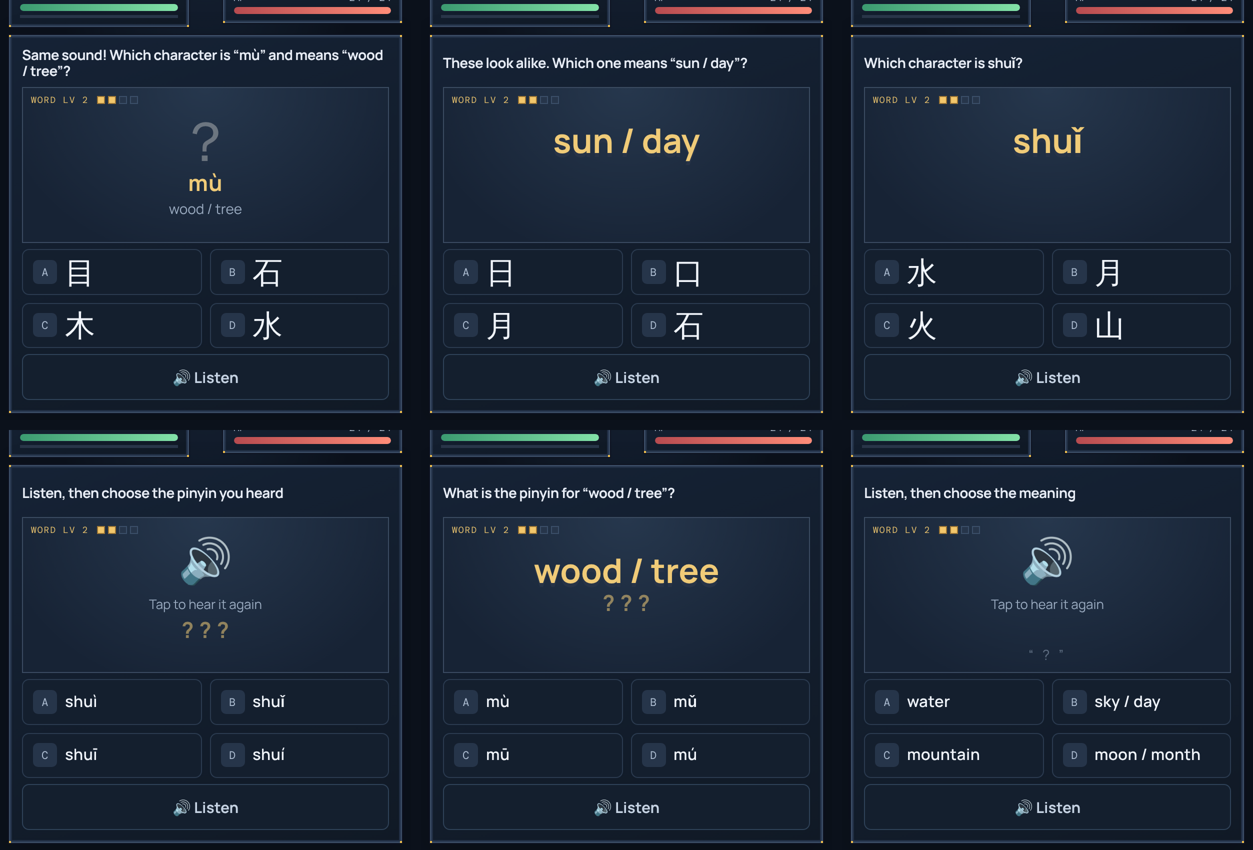
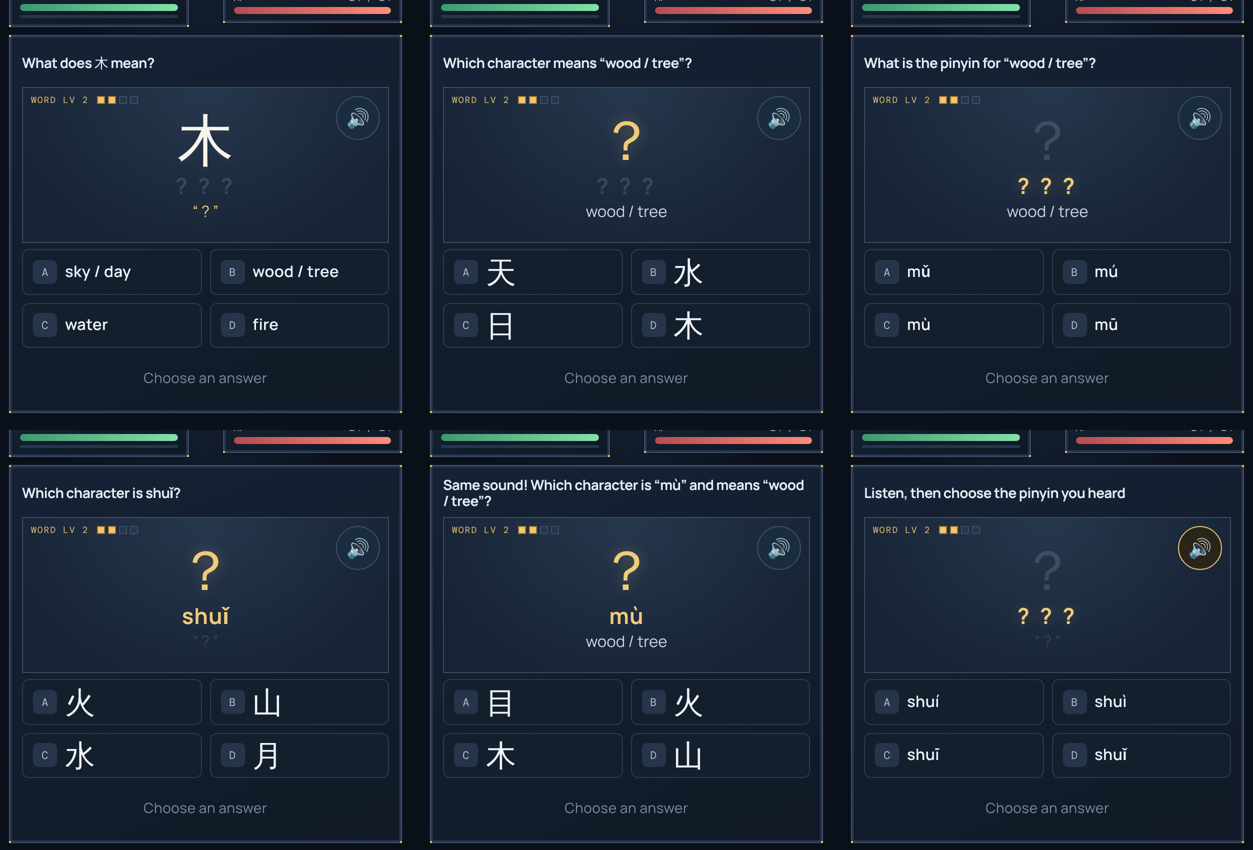
Stable word card: fixed character/pinyin/meaning slots, one speaker button in a fixed corner
Claude-Session: https://claude.ai/code/session_01ULBsvTWxFxqScTZpPGRbQn

diff --git a/src/App.tsx b/src/App.tsx
@@ -300,11 +300,8 @@ export default function App() {
   const entry = save.mastery[word.hanzi]
   const revealed = !!feedback
   const show = { hanzi: question.show.hanzi || revealed, pinyin: question.show.pinyin || revealed, meaning: question.show.meaning || revealed }
-  // The big line of the word card: the character when shown, else the meaning or pinyin that is being given as the cue.
-  const main = show.hanzi ? { text: word.hanzi, latin: false, hidden: false, usesPinyin: false, usesMeaning: false }
-    : show.meaning && question.ask !== 'meaning' && !(show.pinyin && question.kind === 'homophone') ? { text: word.meaning, latin: true, hidden: false, usesPinyin: false, usesMeaning: true }
-      : show.pinyin && question.ask !== 'pinyin' && !show.meaning ? { text: word.pinyin, latin: true, hidden: false, usesPinyin: true, usesMeaning: false }
-        : { text: '？', latin: false, hidden: true, usesPinyin: false, usesMeaning: false }
+  // Each field of the word card has its OWN fixed slot. A hidden field shows the same placeholder; the asked one is highlighted.
+  const slot = (shown: boolean, asked: boolean) => (shown ? 'on' : asked ? 'ask' : 'dim')
   const fighting = run.phase === 'fighting'
   const lastOfFloor = run.kill + 1 >= ENEMIES_PER_FLOOR
   const pips = entry ? entry.lv : -1
@@ -355,11 +352,10 @@ export default function App() {
             {/* Fixed-size regions: stage, choices, action bar never change size or position. */}
             {fighting && !feedback && <>
               <div className="stage stage-card"><span className="stage-badge">{pips < 0 ? 'NEW WORD' : pips >= MAX_LV ? 'MASTERED' : `WORD LV ${pips}`}<i className="pips">{Array.from({ length: MAX_LV }, (_, k) => <u key={k} className={k < pips ? 'on' : ''} />)}</i></span>
-                {question.audio
-                  ? <button className="listen-big" onClick={() => speak(word.hanzi)} aria-label="Play the word again">🔊<span>Tap to hear it again</span></button>
-                  : <div className={`hanzi ${main.latin ? 'big-latin' : ''} ${main.hidden ? 'is-hidden' : ''}`}>{main.text}</div>}
-                <div className="pinyin-line"><span className={`pinyin ${show.pinyin ? '' : 'is-hidden'}`}>{main.usesPinyin ? '\u00a0' : show.pinyin ? word.pinyin : question.ask === 'pinyin' ? '? ? ?' : '\u00a0'}</span></div>
-                <div className={`word-meaning ${show.meaning ? '' : 'is-hidden'}`}>{main.usesMeaning ? '\u00a0' : show.meaning ? word.meaning : question.ask === 'meaning' ? '“ ? ”' : '\u00a0'}</div>
+                <button className={`speak-btn ${question.audio ? 'cue' : ''}`} onClick={() => speak(word.hanzi)} aria-label="Hear the word">🔊</button>
+                <div className={`slot slot-hanzi ${slot(show.hanzi, question.ask === 'hanzi')}`}>{show.hanzi ? word.hanzi : '？'}</div>
+                <div className={`slot slot-pinyin ${slot(show.pinyin, question.ask === 'pinyin')}`}>{show.pinyin ? word.pinyin : '? ? ?'}</div>
+                <div className={`slot slot-meaning ${slot(show.meaning, question.ask === 'meaning')}`}>{show.meaning ? word.meaning : '“ ? ”'}</div>
               </div>
               <div className="answer-list">{question.options.map((option, i) => {
                 const gone = eliminated.includes(option)
@@ -376,8 +372,10 @@ export default function App() {
                     <div className="fb-word">
                       <span className="fb-hanzi">{feedback.word.hanzi}</span>
                       <div className="fb-info"><span className="fb-pinyin">{feedback.word.pinyin}</span><span className="fb-meaning">{feedback.word.meaning}</span></div>
-                      {hasExplanation(feedback.word.hanzi) && <button className={`icon-btn tip-btn ${feedback.correct ? '' : 'pulse'}`} onClick={() => setExplain([feedback.word.hanzi])} aria-label={`More about ${feedback.word.hanzi}`}>💡</button>}
-                      <button className="icon-btn" onClick={() => speak(feedback.word.hanzi)} aria-label="Hear pronunciation">🔊</button>
+                    </div>
+                    <div className="corner-btns">
+                      {hasExplanation(feedback.word.hanzi) && <button className={`speak-btn tip-btn ${feedback.correct ? '' : 'pulse'}`} onClick={() => setExplain([feedback.word.hanzi])} aria-label={`More about ${feedback.word.hanzi}`}>💡</button>}
+                      <button className="speak-btn" onClick={() => speak(feedback.word.hanzi)} aria-label="Hear the word">🔊</button>
                     </div>
                     <p className="fb-note" ref={noteRef}>{feedback.word.note}</p>
                     {feedback.mastery && <p className={`fb-mastery ${feedback.masteryUp ? 'up' : ''}`}>{feedback.mastery}</p>}
@@ -390,8 +388,9 @@ export default function App() {
             <div className="action-bar">
               {fighting && !feedback
                 ? <>
-                    <button className="bar-btn ghost" onClick={() => speak(word.hanzi)} aria-label="Hear pronunciation">🔊 Listen</button>
-                    {bonuses.hints > 0 && <button className="bar-btn ghost hint-btn" onClick={useHint} disabled={run.hintsLeft < 1} aria-label={`Hint, ${run.hintsLeft} left this fight`}>💡 Hint <b>{run.hintsLeft}</b></button>}
+                    {bonuses.hints > 0
+                      ? <button className="bar-btn ghost hint-btn" onClick={useHint} disabled={run.hintsLeft < 1} aria-label={`Hint, ${run.hintsLeft} left this fight`}>💡 Hint <b>{run.hintsLeft}</b></button>
+                      : <p className="bar-hint">Choose an answer</p>}
                   </>
                 : <button className="bar-btn main" data-kind={fighting ? 'continue' : run.phase === 'victory' ? 'next' : 'camp'} onClick={fighting ? dismissFeedback : run.phase === 'victory' ? nextEnemy : endRun}>
                     {fighting ? 'Continue' : run.phase === 'victory' ? (lastOfFloor ? `Descend to floor ${run.floor + 1}` : 'Next enemy') : 'Go to camp'} <span>{run.phase === 'defeat' && !fighting ? '⛺' : '→'}</span>

diff --git a/src/styles.css b/src/styles.css
@@ -387,3 +387,29 @@ button.wordbook-word{background:#192638;border-radius:7px;min-height:44px}
 @media(max-width:380px){.scene-gold{display:none}.chip-btn{min-width:40px}}
 /* the big card line when the cue is the meaning or the pinyin instead of the character */
 .stage-card .hanzi.big-latin{font-size:clamp(26px,5.2dvh,44px);font-weight:700;line-height:1.15;padding:0 8px;max-width:100%;overflow-wrap:anywhere;color:#f0cb78}
+
+/* ======== Word card: every field has its own fixed slot; one speaker button, always in the same corner ======== */
+.stage{position:relative}
+.stage-card{justify-content:center;gap:0}
+.slot{width:100%;display:flex;align-items:center;justify-content:center;text-align:center;overflow:hidden;white-space:nowrap;margin:0}
+.slot-hanzi{font-size:80px;height:92px;line-height:1;font-weight:600}
+.slot-pinyin{font-size:30px;height:38px;font-weight:700;letter-spacing:.5px}
+.slot-meaning{font-size:18px;height:28px}
+.slot.on.slot-hanzi{color:#f7f4eb;text-shadow:0 4px 0 #273347}
+.slot.on.slot-pinyin{color:#f0cb78}
+.slot.on.slot-meaning{color:#cbd7e6}
+.slot.dim{color:#9aabc0;opacity:.22}
+.slot.ask{color:#f0cb78;opacity:1;text-shadow:0 0 14px #f0cb7855}
+.slot-pinyin.ask,.slot-pinyin.dim{letter-spacing:3px}
+.speak-btn{position:absolute;top:8px;right:8px;z-index:2;width:44px;height:44px;border-radius:50%;display:grid;place-items:center;border:1px solid #3b526b;background:#1a2c40;color:#c4d8eb;font-size:19px;padding:0}
+.speak-btn.cue{border-color:#f0cb78;background:#2a2518;animation:tip-pulse 1.4s ease-in-out infinite}
+.corner-btns{position:absolute;top:8px;right:8px;z-index:2;display:flex;gap:8px}
+.corner-btns .speak-btn{position:static}
+.stage-fb .fb-head,.stage-fb .fb-answer{padding-right:108px}
+.bar-hint{margin:0;flex:1;display:grid;place-items:center;color:#7d8da3;font-size:14px;letter-spacing:.3px}
+@media(max-width:850px){
+  .slot-hanzi{font-size:clamp(44px,8.6dvh,72px);height:clamp(54px,10dvh,88px)}
+  .slot-pinyin{font-size:clamp(22px,3.4dvh,30px);height:clamp(28px,4.2dvh,36px)}
+  .slot-meaning{font-size:clamp(15px,2.4dvh,19px);height:clamp(22px,3.6dvh,28px)}
+}
+@media(prefers-reduced-motion:reduce){.speak-btn.cue{animation:none}}

diff --git a/CHANGELOG.md b/CHANGELOG.md
@@ -100,6 +100,11 @@
 - Tests: 45 unit tests (every word × level × kind: 4 unique options, exactly one correct; level tables; homophone/look-alike/known-words rules; repeat rate and weak-area boost); browser: all 10 kinds rendered at 411×650, a 61-question seeded session served 7 kinds with 5 % repeats and 0 unanswerable questions, full e2e + explanation, death/kill, fit suites still pass.
 - Not verified: real Mandarin voices on a phone (audio kinds were exercised with a stubbed voice), balance with real players, whether the weights feel right.
 
+## 0.5.1 — stable word card (nothing jumps between question types)
+- The word card is now three fixed slots — character, pinyin, meaning — each with its own height and font size for every question kind. A hidden field always shows the same placeholder (`？`, `? ? ?`, `“ ? ”`); the field being asked is gold, the others are dimmed; revealed cues use the normal style. The earlier layout swapped the meaning or the pinyin into the big character slot depending on the kind.
+- One speaker button, 44 px round, always in the card's top-right corner: in the question (pulsing gold ring when listening is the cue) and in the answer recap (same box, with 💡 beside it when an explanation exists). The old big speaker block, the bar "Listen" button and the recap's inline speaker are gone. The action bar shows Hint, or "Choose an answer" when there are no hints.
+- Test (`slots.mjs`, headless Chromium, 411×650, 411×860, 320×568, 1100×800): for all 11 kinds the slot rectangles, speaker, card, choices and action bar are pixel-identical, and the speaker keeps the same right edge/top/size from question to answer. Plus the unit, fit, notes-fit, explanation, death/kill, variety and full e2e suites.
+
 ## Hosting
 - `.github/workflows/pages.yml` runs `npm ci`, `npm test`, `npm run build` (with `BASE_PATH=/<repo>/`) and deploys `dist/` to GitHub Pages on every push to `main`. One-time setup: repo Settings → Pages → Source = "GitHub Actions".
 - `vite.config.ts` reads `BASE_PATH` (default `/`). Verified locally by building with `BASE_PATH=/hanzi-hunters/` and serving with `vite preview --base`: all assets 200, textures render. The deployed Pages site itself has not been verified yet.
